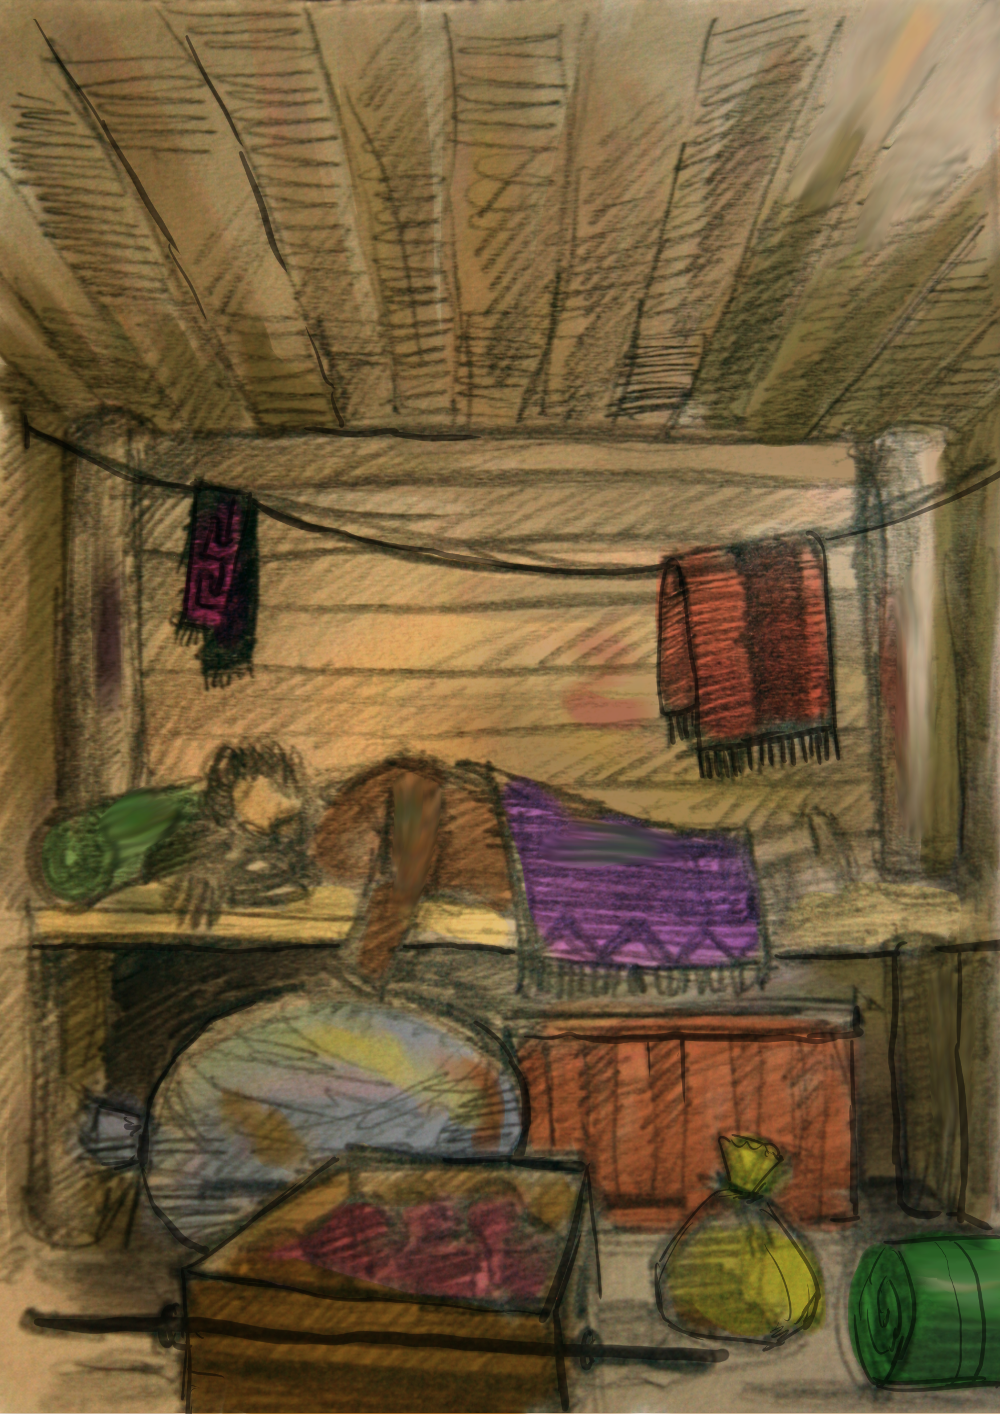
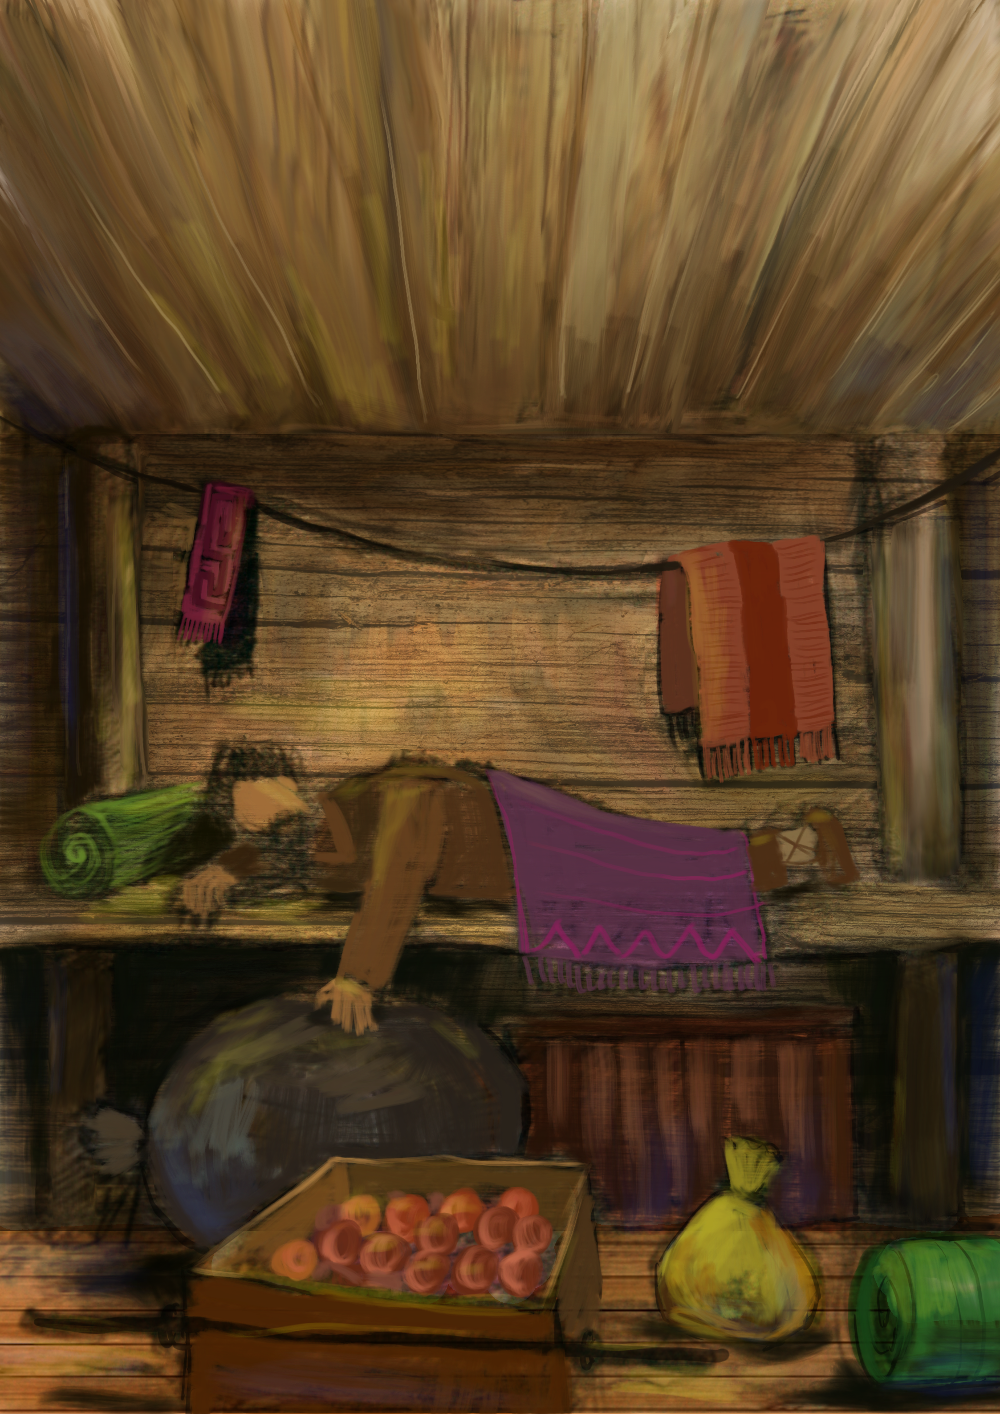
Update 09.

diff --git a/script.js b/script.js
@@ -4,7 +4,7 @@ angular.module('galleryApp', [])
     gallery.language = "ro";
     gallery.work_start_date = new Date(2016,05,20);
 
-    gallery.worked_hours = 141;  // EDIT HERE
+    gallery.worked_hours = 142;  // EDIT HERE
 
     gallery.get_global_progress = function() {
       var index;
@@ -197,7 +197,7 @@ angular.module('galleryApp', [])
       {
         id: 9,
         img: '09.png',
-        done: 50,
+        done: 80,
         text: {
           ro: "1:5C. Iona s-a coborât în fundul corăbiei, s-a culcat şi a adormit dus.",
           en: "1:5C. But Jonah was gone down into the sides of the ship; and he lay, and was fast asleep."
